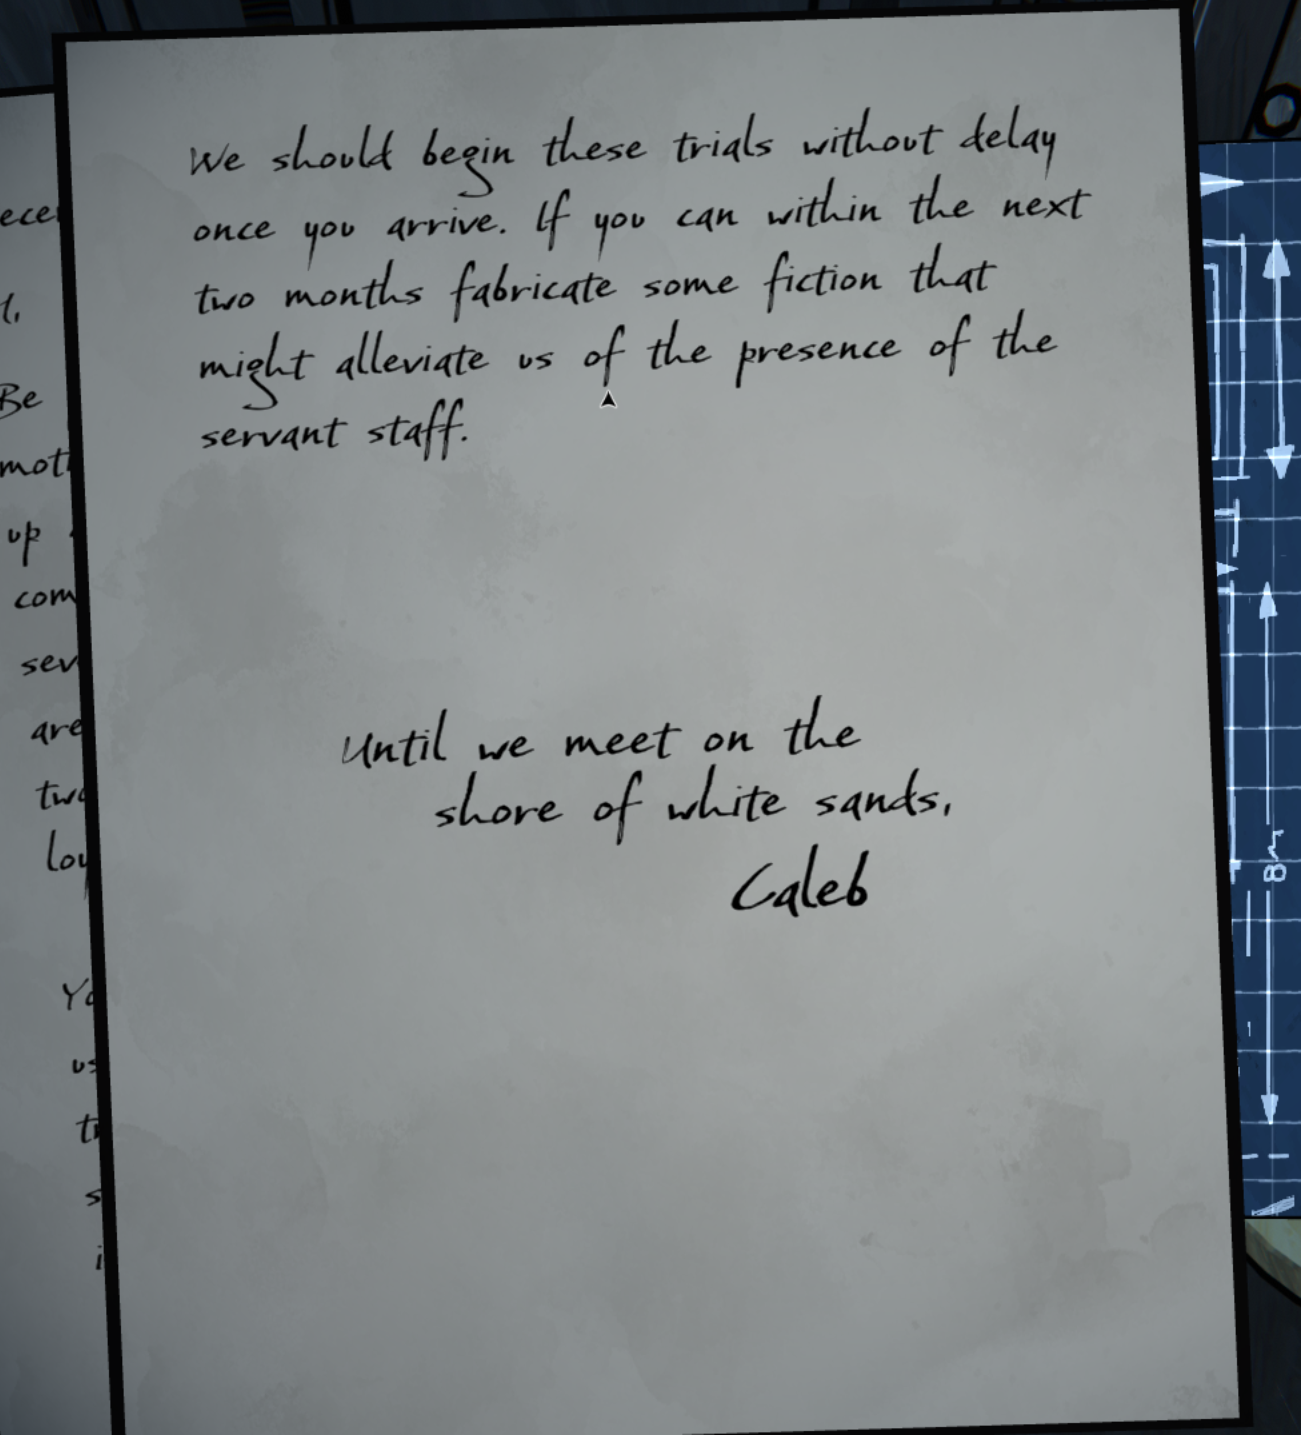
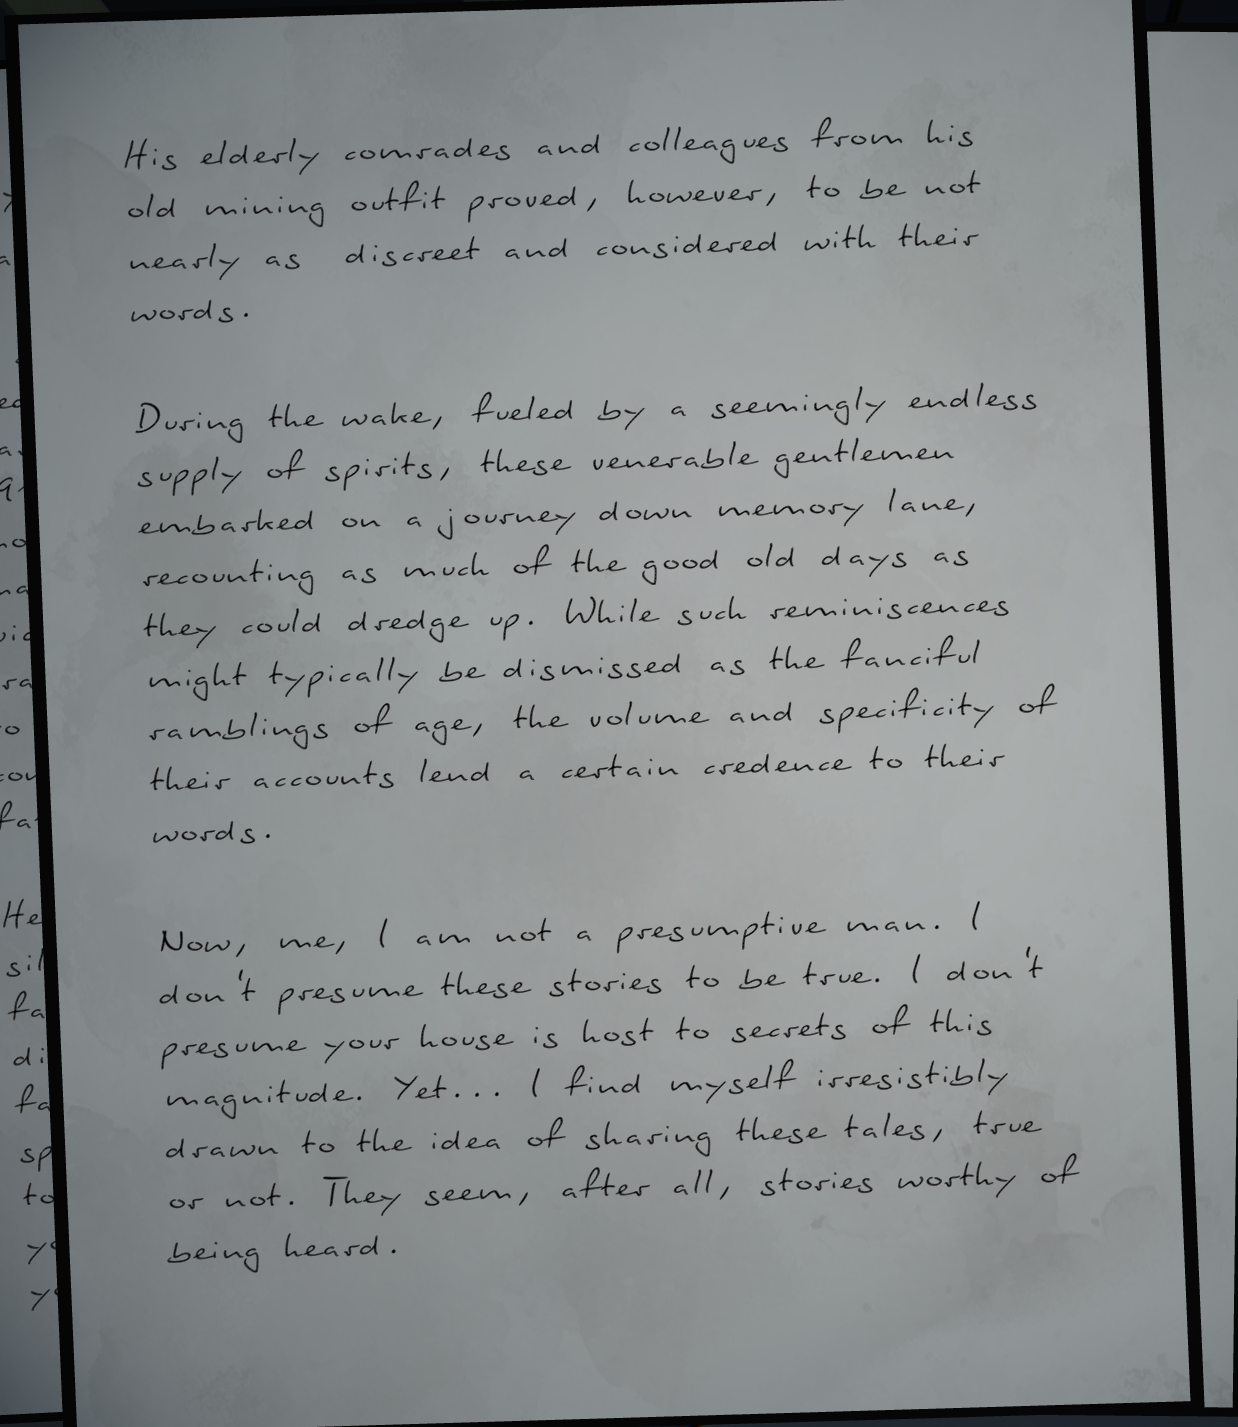
vault backup: 2025-05-11 00:12:33

diff --git a/Puzzles/Red Letters/Red Letter 2.md b/Puzzles/Red Letters/Red Letter 2.md
@@ -4,8 +4,8 @@ aliases:
 ---
 Found in [[Study]]
 Written by [[Caleb]]
-![[RL1-1.png]]
+![[RL2-1.png]]
 
-![[RL1-2.png]]
+![[RL2-2.png]]
 
-![[RL1-3.png]]
+![[RL2-3.png]]

diff --git a/Blueprints/Rooms/Numbered/Room 46.md b/Blueprints/Rooms/Numbered/Room 46.md
@@ -1,0 +1,3 @@
+If forced into [[Outer Rooms]] following can be found within:
+![[Pasted image 20250511000758.png]]
+![[Pasted image 20250511000805.png]]

diff --git a/Puzzles/Red Letters/Red Letter 1.md b/Puzzles/Red Letters/Red Letter 1.md
@@ -1,0 +1,6 @@
+Found in [[The Underpass]]
+
+![[RL1-1.png]]
+![[RL1-2.png]]
+![[RL1-3.png]]
+![[RL1-4.png]]
